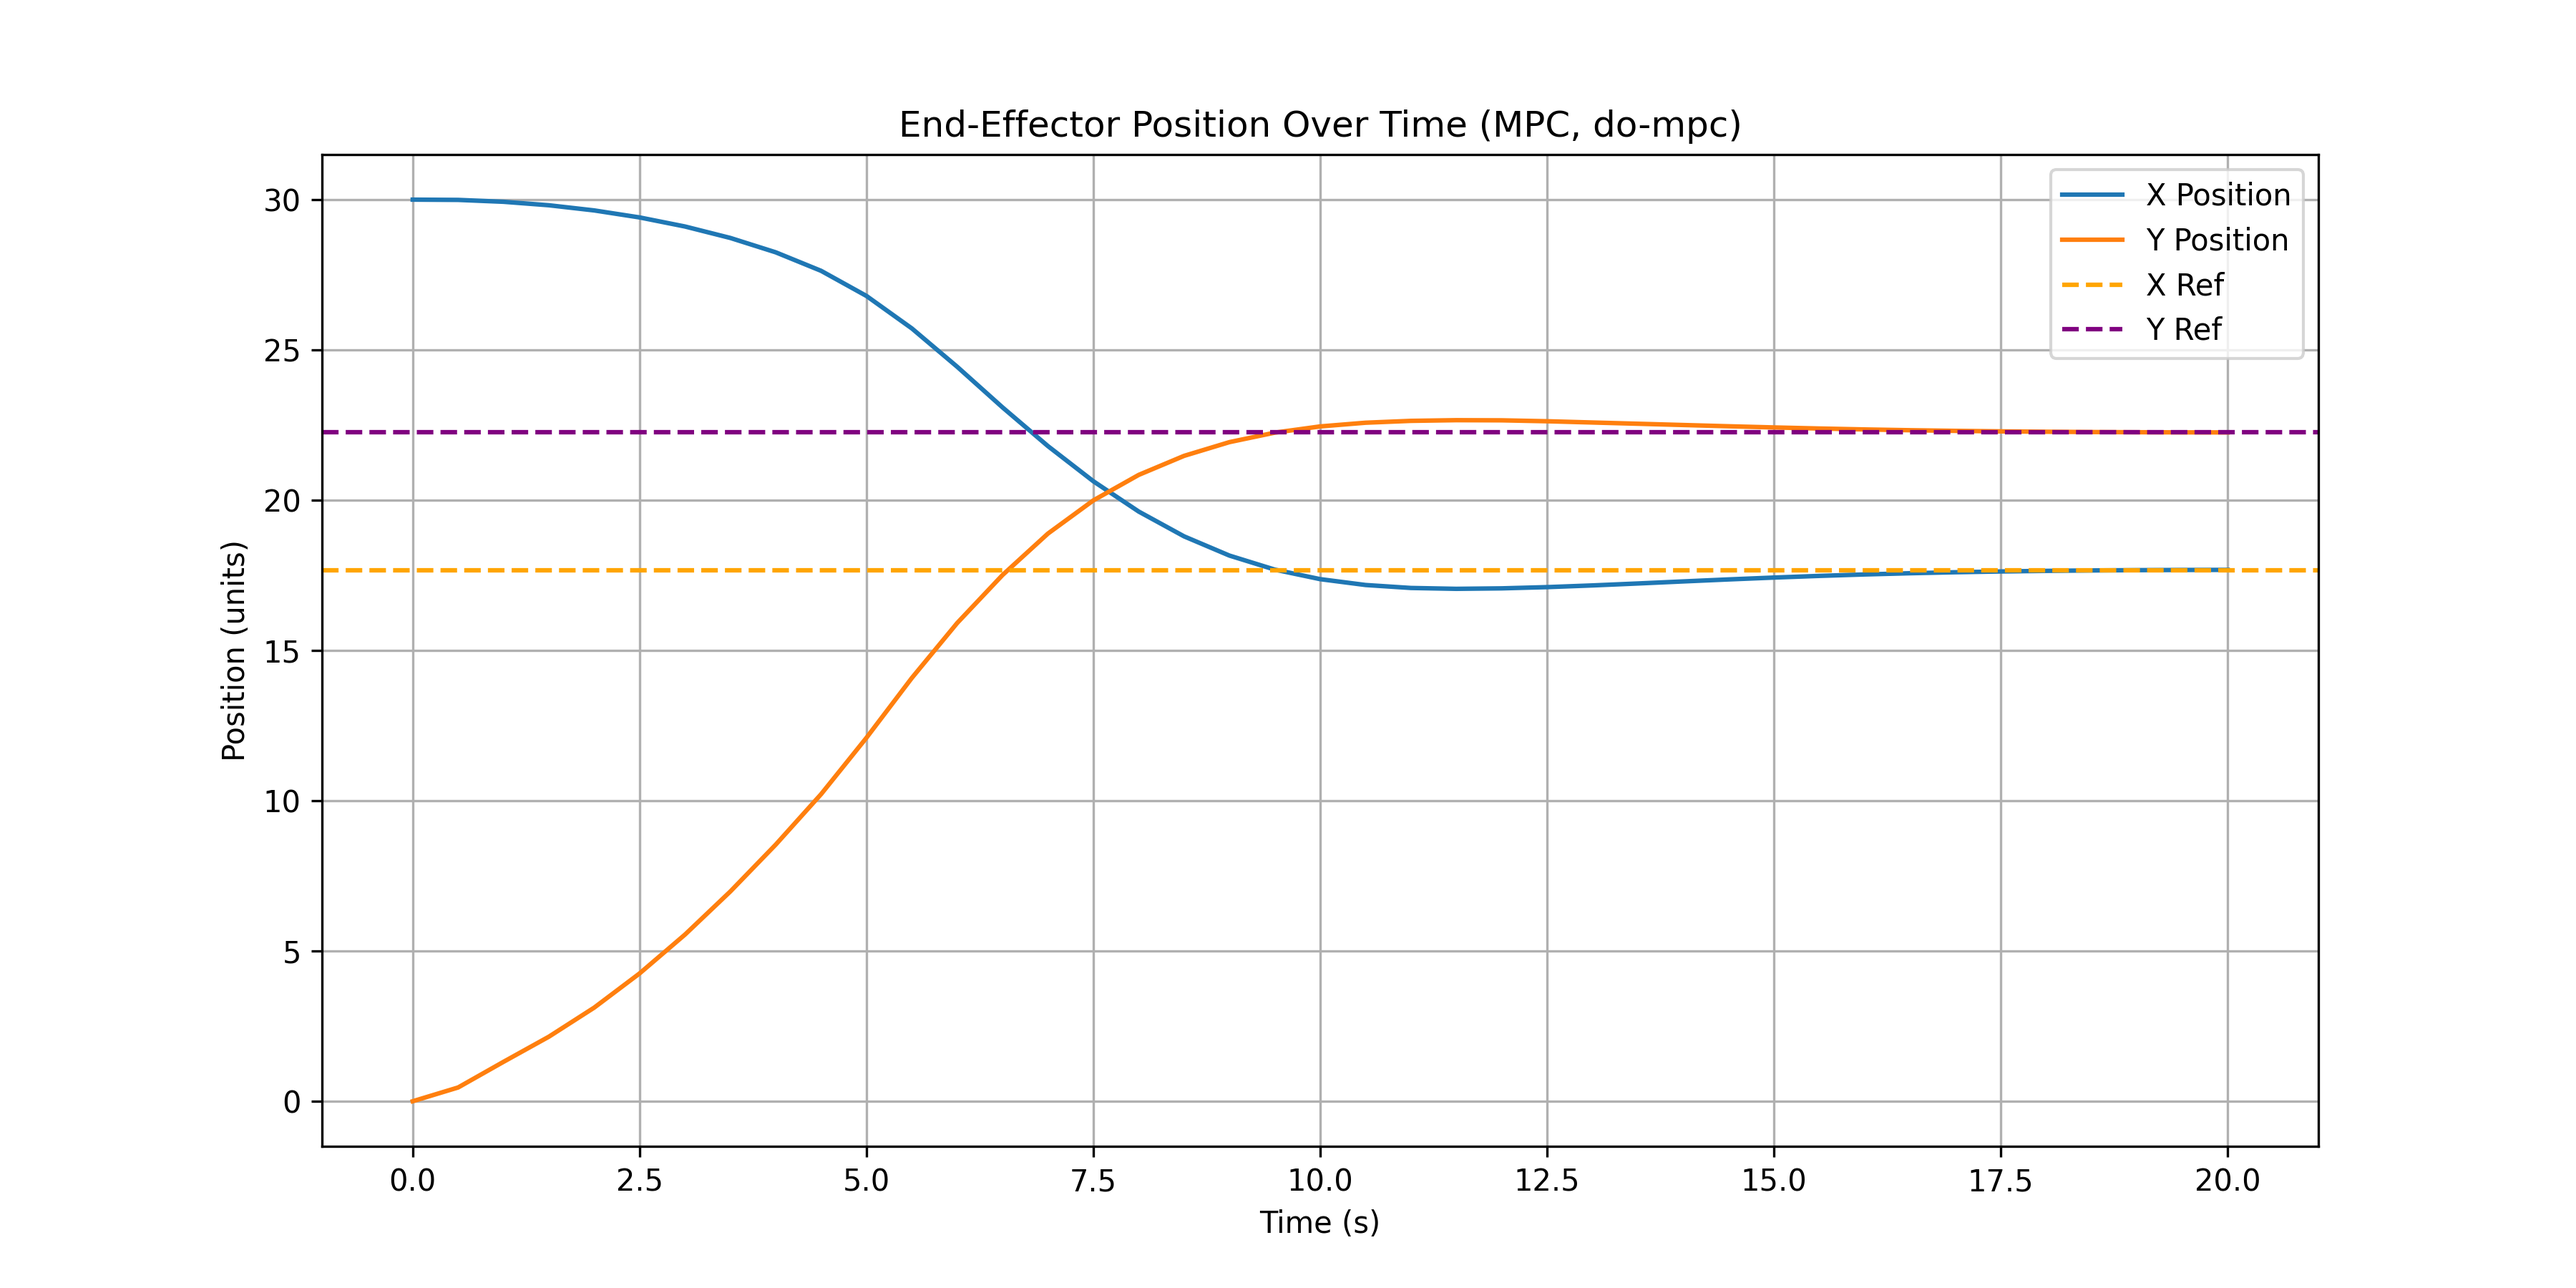
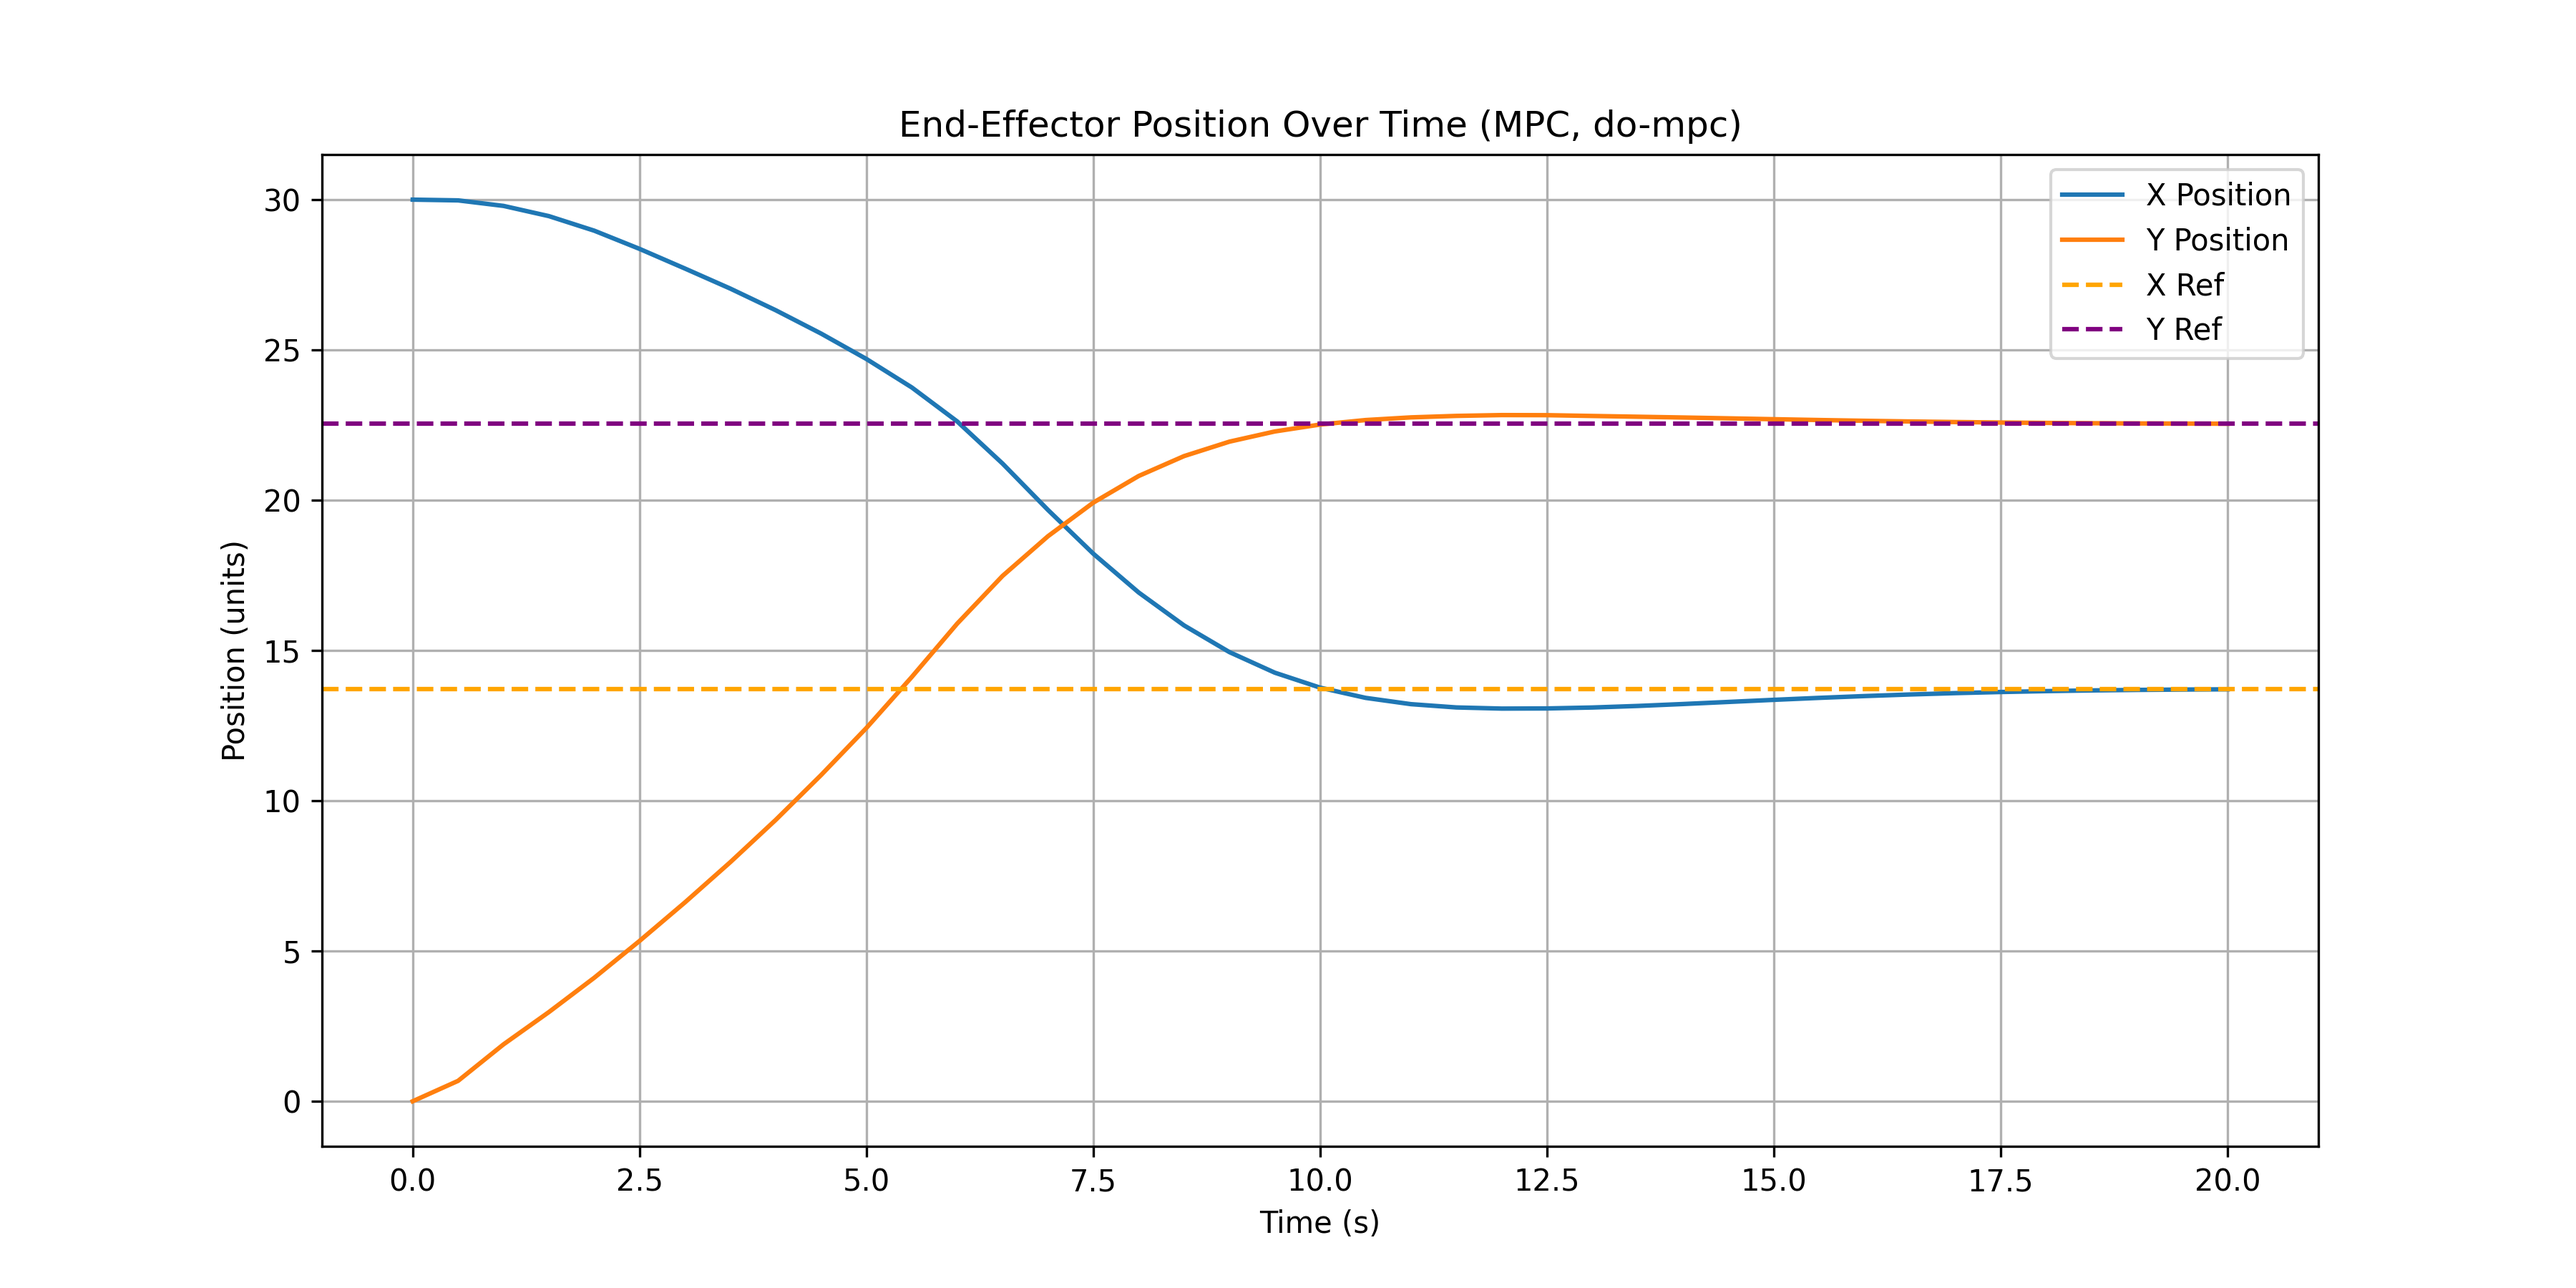
modify some dynamics

diff --git a/Scripts/MPC.py b/Scripts/MPC.py
@@ -8,6 +8,9 @@ from scipy.linalg import solve_continuous_are
 from matplotlib.animation import FuncAnimation
 from scipy.interpolate import interp1d
 
+# Desired reference state
+x_ref = np.array([0.5, 0.4, 0.8, 0.0, 0.0, 0.0])
+
 # --- System Parameters ---
 m1_val, m2_val, k_val = 10.0, 1.0, 10.0
 l_val, r_val = 10.0, 2.0
@@ -25,8 +28,9 @@ num_steps = int((t_span[1] - t_span[0]) / dt)
 routing = np.array([
         [1, -1,  1, -1],
         [0,  1, -1, -1],
-        [0,0,  -1,  1]
+        [0,  0, -1,  1]
 ])
+
 # --- Compute Symbolic Matrices ---
 M, C, K = compute_lagrangian_matrices()
 substitutions = {
@@ -64,8 +68,6 @@ B_c = np.vstack([
 nx = A_c.shape[0]
 nu = B_c.shape[1]
 
-# Desired reference state
-x_ref = np.array([0.5, 0.4, 0.4, 0.0, 0.0, 0.0])
 
 # --- do-mpc Model (Continuous) ---
 model_type = 'continuous'

diff --git a/Scripts/Lagrangian_V4_MatrixForm.py b/Scripts/Lagrangian_V4_MatrixForm.py
@@ -38,7 +38,7 @@ def compute_lagrangian_matrices():
     L = T_rot_disks + T_rot_rods + T_trans_rods + T_trans_disks - V_spring
 
     # Generalized friction forces
-    friction_forces = Matrix([-c1 * q_dot[0], -c2 * q_dot[1], -c3 * q_dot[2]])
+    friction_forces = Matrix([-c1* r * q_dot[0], -c2 * r*q_dot[1], -c3 * r*q_dot[2]])
 
     # Derive Euler-Lagrange equations
     euler_lagrange_eqs = Matrix([
@@ -87,8 +87,8 @@ if __name__ == '__main__':
     K_jnp = jnp.array(K_eval.tolist(), dtype=jnp.float32)
 
     print("Mass Matrix (JAX, M):")
-    print(M_jnp)
+    print(M)
     print("\nDamping Matrix (JAX, C):")
-    print(C_jnp)
+    print(C)
     print("\nStiffness Matrix (JAX, K):")
-    print(K_jnp)
+    print(K)

diff --git a/Scripts/LQR.py b/Scripts/LQR.py
@@ -46,6 +46,12 @@ routing = np.array([
         [0,0,  -1,  1]
 ])
 
+# routing = np.array([
+#         [-1,1],
+#         [1,-1],
+#         [0,1]
+# ])
+
 substitutions = {
     symbols('m1'): m1_val,
     symbols('m2'): m2_val,
